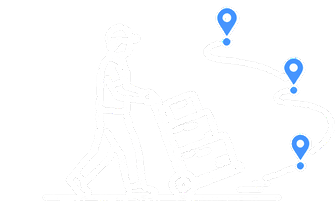
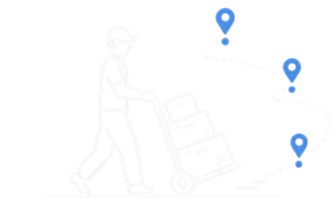
fix(home): 改用高清原图重制插画，线条干净清晰（两主题）
用户提供原始素材：深色 694x454 JPG（#101018 底 + 白线 + 蓝点）、
浅色 1556x1024 PNG（棋盘格为烘焙进像素的假透明，非真 alpha）。

处理：
- 深色：从 694 原图按亮度抠底（底色 ~18→透明，白线→不透明），
  中值去 JPEG 噪点，输出 336x220（@4x），白线保留原色、蓝点 #3C85E9。
- 浅色：那张 PNG 的棋盘格与线条亮度差仅 6-20，中值背景相减后仍残留格子、
  蓝点出现圆环；改用「同一线形重新着色」——取深色原图的高质量 alpha（黑底
  白线对比强、抠得干净），线条统一着色 #5A6675、蓝点 #1773F6，输出 336x220。
  白卡上干净无格纹，线条平滑无毛刺。
- 体积：深 15.5KB + 浅 16.4KB = 31.9KB（原 36.8KB，更小更清晰）。
- home.html 宽高统一 336x220；SW VERSION 158→159。

测试：sw-precache / home-bundle-fresh / js-syntax / csp-hashes / css-home /
security-headers 全绿。

Changed region(s): [[0.625, 0.0273, 0.7143, 0.2182], [0.8631, 0.6, 0.9226, 0.7636], [0.8333, 0.2455, 0.9226, 0.4364]]

diff --git a/home.html b/home.html
@@ -57,7 +57,7 @@
       <div class="task-info">
         <div class="today-summary"><strong id="todayCount">加载中…</strong><span id="todayWeight"></span><span id="substituteBadge" class="sub-badge" hidden>代班</span></div>
       </div>
-      <div class="delivery-man" aria-hidden="true"><img class="delivery-img-dark" src="/assets/delivery-route.webp?v=fa4a07f3" width="336" height="221" decoding="async" alt=""><img class="delivery-img-light" src="/assets/delivery-route-light.webp?v=05e89ad4" width="672" height="442" decoding="async" alt="" loading="lazy"></div>
+      <div class="delivery-man" aria-hidden="true"><img class="delivery-img-dark" src="/assets/delivery-route.webp?v=b872c885" width="336" height="220" decoding="async" alt=""><img class="delivery-img-light" src="/assets/delivery-route-light.webp?v=9f4006c2" width="336" height="220" decoding="async" alt="" loading="lazy"></div>
     </div>
     <div class="today-store-list" id="todayStoreList" aria-label="今日门店"></div>
     <div class="today-metrics" id="todayMetrics" aria-label="今日统计"></div>

diff --git a/sw.js b/sw.js
@@ -9,7 +9,7 @@
  *   - 图片/字体       ：stale-while-revalidate（内容基本不变，秒开优先）
  * 资产缓存键用完整 URL（含 ?v=）精确匹配；页面缓存键用 pathname 规整（忽略 ?from 等查询）。
  */
-const VERSION = "zp-pwa-158";
+const VERSION = "zp-pwa-159";
 const STATIC_CACHE = VERSION + "-static";
 const PAGES_CACHE = VERSION + "-pages";
 const OFFLINE_URL = "/offline";
@@ -29,8 +29,8 @@ const PRECACHE = [
   "/pages/account",
   "/register",
   "/offline",
-  "/assets/delivery-route-light.webp?v=05e89ad4",
-  "/assets/delivery-route.webp?v=fa4a07f3",
+  "/assets/delivery-route-light.webp?v=9f4006c2",
+  "/assets/delivery-route.webp?v=b872c885",
   "/assets/icons/apple-touch-icon.png?v=25f1ad28",
   "/assets/icons/icon-192.png?v=4d3f7fd9",
   "/css/admin-base.css?v=eae17f67",
